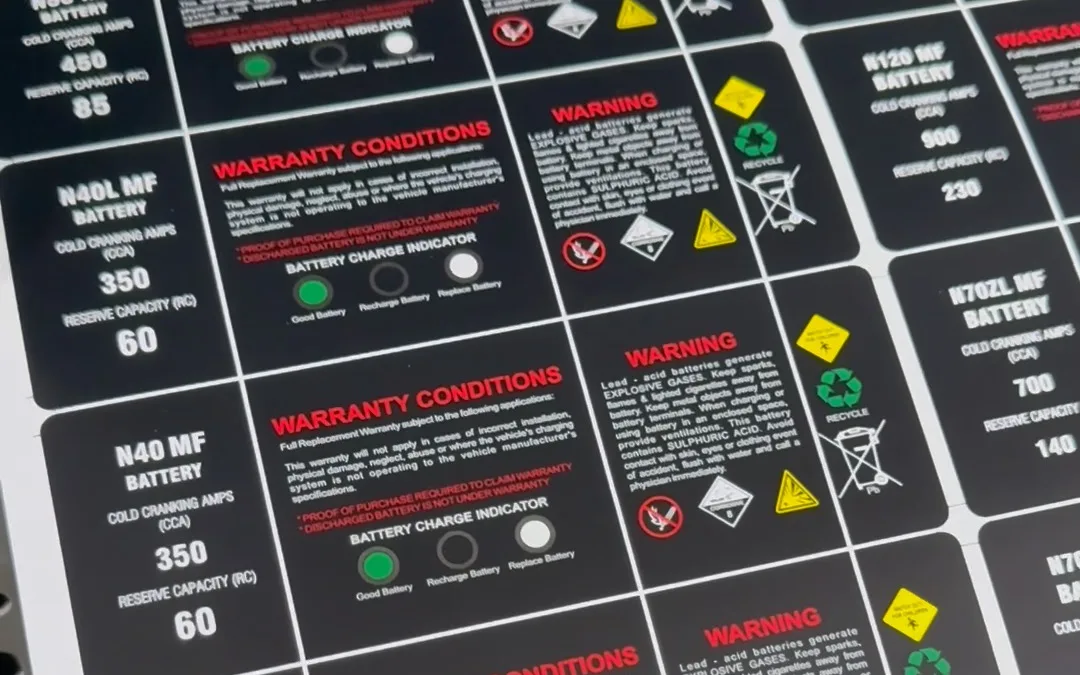
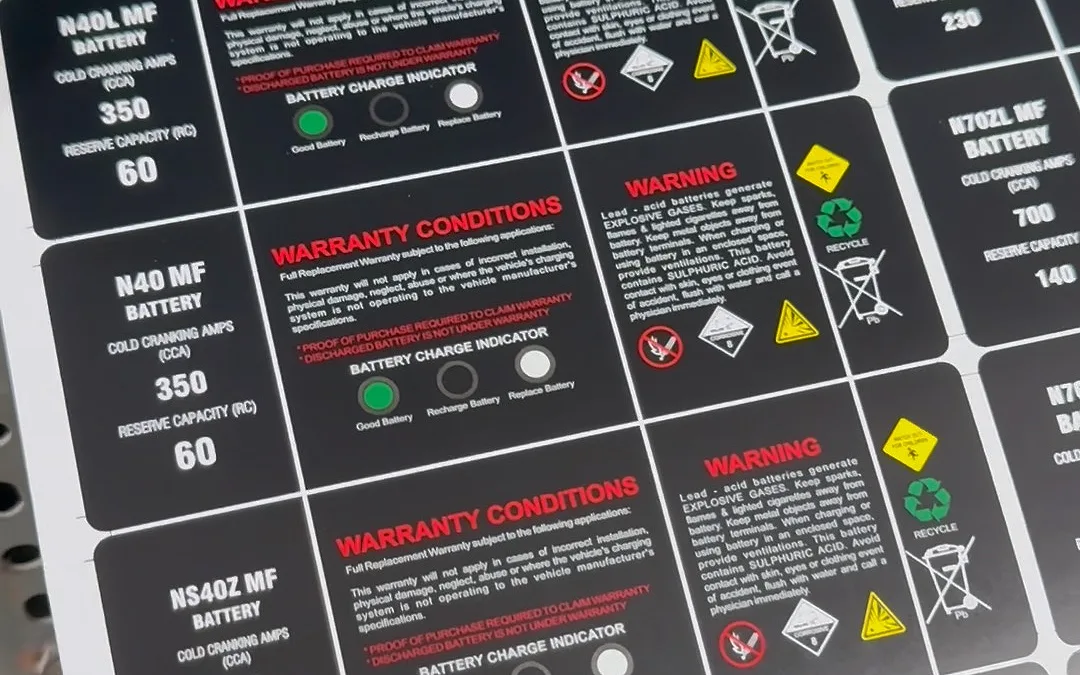
Re-cut the sheet shot from the sharpest part of the frame
Arun read it as blurry on the page. It was: the band I took ran through the
soft top of the frame, where the sheet falls away from the lens. Measuring the
candidate bands rather than eyeballing them put the sharpest one 170px lower,
and a light unsharp mask after the crop does the rest. The label text now
reads at page size.

The source is 1080p handheld video, so this is as sharp as that clip gets. A
photograph of a banded stack would beat it.

diff --git a/docs/design/media-spec.md b/docs/design/media-spec.md
@@ -133,7 +133,7 @@ are in `resources/media-inbox/`, git-ignored.
 | `home/hero.mp4` | `IMG_9026.MOV` (2160 × 3840, 23s) | 2.5–9.0s, 16:9 band from y 1312 |
 | `home/hero.webp` | the same clip | 4.0s |
 | `battery-labels/roll.webp` | the same clip | 12.0s |
-| `battery-labels/sheet.webp` | `2345a5e0….MOV` (1080 × 1920) | 28s |
+| `battery-labels/sheet.webp` | `2345a5e0….MOV` (1080 × 1920) | 28s, band from y 450, light unsharp |
 | `about/plant-labels.webp` | the same clip | 42s |
 | `about/team-quality.webp` | `2AC0896D….MOV` (1080 × 1920) | 24s |
 | `about/careers.webp` | `IMG_5874.HEIC` (4032 × 3024) | — |
@@ -148,6 +148,11 @@ Two things to know before cutting any more of these:
 - **Two of the three video sources carry a baked-in "Powerstik / packaging experts"
   wordmark** low in the frame, and it is not the wordmark this site uses. Every crop
   taken from them stops above it. Check for it in any new frame.
+- **A video frame wants a light unsharp mask**, applied after the crop. 1080p handheld
+  video is soft next to a photograph, and `sheet.webp` read as blurry on the page until
+  the softest strip of the frame was cropped away and the rest sharpened. Measure the
+  candidate bands (Laplacian variance at a common width) rather than eyeballing them —
+  the sharpest band of a frame is rarely the one the subject is centred in.
 - `about/design-india.webp` is the one file under its slot: 868px into a 566px well, so
   it is sharp at 1× and about three-quarters resolution on a retina screen. It is the
   largest version of that photograph that exists.
